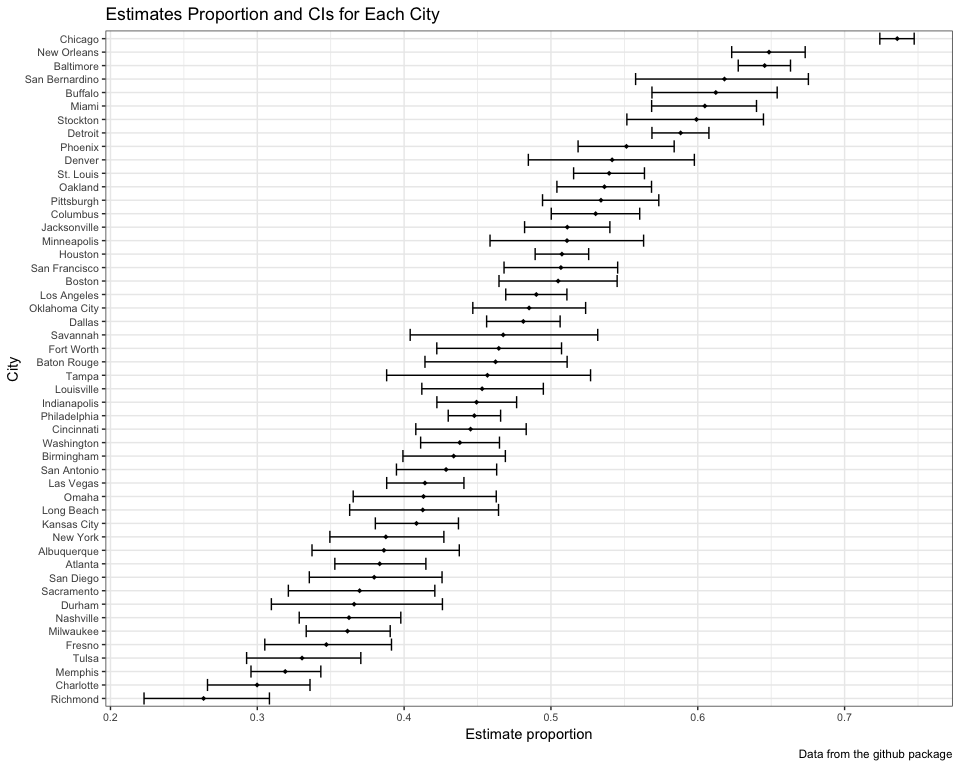
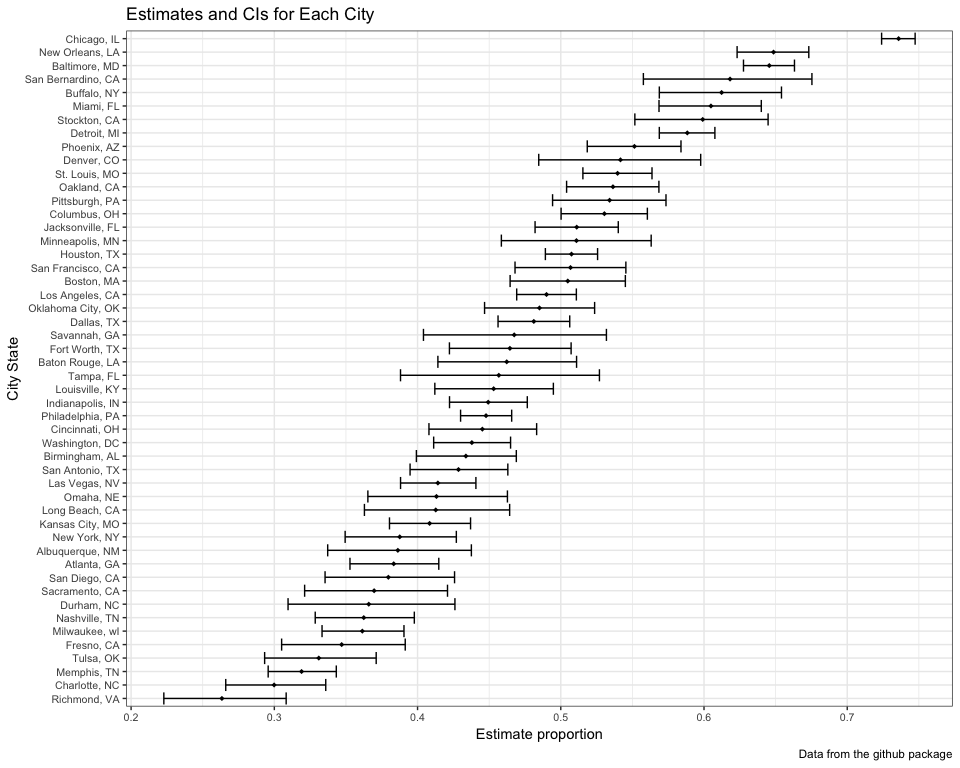
Improve some plot

diff --git a/p8105_hw5_hx2263.md b/p8105_hw5_hx2263.md
@@ -36,32 +36,32 @@ study_data_tidy =
   gather(key = "week", value = "obs_value", week_1:week_8) %>% 
   separate(week, into = c("nn", "week"), sep = "_") %>% 
   select(-nn) %>% 
-  mutate(week = as.numeric(week),
-         id = as.numeric(id))
+  mutate(week = as.numeric(week))
 study_data_tidy
 ```
 
     ## # A tibble: 160 x 5
-    ##    arm_type    id subject_id  week obs_value
-    ##    <chr>    <dbl> <chr>      <dbl>     <dbl>
-    ##  1 con          1 con01          1      0.2 
-    ##  2 con          2 con02          1      1.13
-    ##  3 con          3 con03          1      1.77
-    ##  4 con          4 con04          1      1.04
-    ##  5 con          5 con05          1      0.47
-    ##  6 con          6 con06          1      2.37
-    ##  7 con          7 con07          1      0.03
-    ##  8 con          8 con08          1     -0.08
-    ##  9 con          9 con09          1      0.08
-    ## 10 con         10 con10          1      2.14
+    ##    arm_type id    subject_id  week obs_value
+    ##    <chr>    <chr> <chr>      <dbl>     <dbl>
+    ##  1 con      01    con01          1      0.2 
+    ##  2 con      02    con02          1      1.13
+    ##  3 con      03    con03          1      1.77
+    ##  4 con      04    con04          1      1.04
+    ##  5 con      05    con05          1      0.47
+    ##  6 con      06    con06          1      2.37
+    ##  7 con      07    con07          1      0.03
+    ##  8 con      08    con08          1     -0.08
+    ##  9 con      09    con09          1      0.08
+    ## 10 con      10    con10          1      2.14
     ## # ... with 150 more rows
 
-Make a spaghetti plot showing observations on each subject over time, and comment on differences between groups.
+### Spaghetti plot showing observations on each subject over time
 
 ``` r
 study_data_tidy %>% 
-  ggplot(aes(x = week, y = obs_value, group = subject_id, color = arm_type)) +
+  ggplot(aes(x = week, y = obs_value, color = id)) +
   geom_line() +
+  facet_grid(~ arm_type) +
   labs(
     title = "Observations on Each Subject over 8 Weeks on Both Groups", 
     x = "Week", 
@@ -73,7 +73,9 @@ study_data_tidy %>%
 
 ![](p8105_hw5_hx2263_files/figure-markdown_github/spaghetti_plot-1.png)
 
-**Comment**: All subjects are at same level in 1st week but observations values in experimental group end in higher level than control arm. There are obvious increasing trend in experimental group, while in control group, values remain fluctuating in same level.
+**Comment**:
+
+All subjects are at same level in 1st week but observations values in experimental group end in higher level than control arm. There are obvious increasing trend in experimental group, while in control group, values remain fluctuating in same level.
 
 Problem 2
 =========
@@ -96,49 +98,36 @@ homicide_tidy =
   mutate(city_state = str_c(city, ", ", state)) 
 ```
 
-``` r
-homicide_tidy %>% 
-  count(city_state)
-```
+In the problem description, this dataset should contains homicides from 50 cities, but after summarizing city\_state, there are 51 cities. There is two "Tulsa". There is only one homicide in the row of "Tulsa, AL". Also, after googling we know that Tulsa is in OK, and the longitude and latitude also shows that this homicide was happened in Tulsa, OK. "Tulsa, AL" might be a typo in dataset, so I exclude this observation before further analysis.
 
-    ## # A tibble: 51 x 2
-    ##    city_state          n
-    ##    <chr>           <int>
-    ##  1 Albuquerque, NM   378
-    ##  2 Atlanta, GA       973
-    ##  3 Baltimore, MD    2827
-    ##  4 Baton Rouge, LA   424
-    ##  5 Birmingham, AL    800
-    ##  6 Boston, MA        614
-    ##  7 Buffalo, NY       521
-    ##  8 Charlotte, NC     687
-    ##  9 Chicago, IL      5535
-    ## 10 Cincinnati, OH    694
-    ## # ... with 41 more rows
+``` r
+homicide_tidy = homicide_tidy %>% 
+  filter(city_state != "Tulsa, AL")
+```
 
 ### Summarize within cities to obtain the Total Number of Homicides
 
 ``` r
 total_num = 
   homicide_tidy %>% 
-  group_by(city) %>%
+  group_by(city_state) %>%
   summarise(total_number = n())
 total_num
 ```
 
     ## # A tibble: 50 x 2
-    ##    city        total_number
-    ##    <fct>              <int>
-    ##  1 Albuquerque          378
-    ##  2 Atlanta              973
-    ##  3 Baltimore           2827
-    ##  4 Baton Rouge          424
-    ##  5 Birmingham           800
-    ##  6 Boston               614
-    ##  7 Buffalo              521
-    ##  8 Charlotte            687
-    ##  9 Chicago             5535
-    ## 10 Cincinnati           694
+    ##    city_state      total_number
+    ##    <chr>                  <int>
+    ##  1 Albuquerque, NM          378
+    ##  2 Atlanta, GA              973
+    ##  3 Baltimore, MD           2827
+    ##  4 Baton Rouge, LA          424
+    ##  5 Birmingham, AL           800
+    ##  6 Boston, MA               614
+    ##  7 Buffalo, NY              521
+    ##  8 Charlotte, NC            687
+    ##  9 Chicago, IL             5535
+    ## 10 Cincinnati, OH           694
     ## # ... with 40 more rows
 
 ### Number of Unsolved Homicides
@@ -167,11 +156,11 @@ total_unslv
     ## 10 Cincinnati, OH             309
     ## # ... with 40 more rows
 
-Baltimore, MD--estimate the proportion of homicides that are unsolved
+### Baltimore, MD--estimate the proportion of unsolved homicides
 
 ``` r
 bm_total = total_num %>%
-  filter(city == "Baltimore")
+  filter(city_state == "Baltimore, MD")
 
 bm_unsolved = total_unslv %>%
   filter(city_state == "Baltimore, MD")
@@ -180,15 +169,15 @@ prop_test_bm = prop.test(bm_unsolved$total_unsolved, bm_total$total_number)
 
 prop_test_bm %>% 
   broom::tidy() %>%
-  select(estimate, conf.low, conf.high)
+  select(estimate, conf.low, conf.high) %>%
+  knitr::kable(digits = 3)
 ```
 
-    ## # A tibble: 1 x 3
-    ##   estimate conf.low conf.high
-    ##      <dbl>    <dbl>     <dbl>
-    ## 1    0.646    0.628     0.663
+|  estimate|  conf.low|  conf.high|
+|---------:|---------:|----------:|
+|     0.646|     0.628|      0.663|
 
-Prop.test for each of the cities
+### Prop.test for each of the cities
 
 ``` r
 prop_all_est = 
@@ -197,36 +186,36 @@ prop_all_est =
                           total_num$total_number, prop.test)) %>% 
   mutate(total_hom = map(total_hom, broom::tidy)) %>% 
   unnest() %>% 
-  select(city, estimate, conf.low, conf.high)
+  select(city_state, estimate, conf.low, conf.high)
 prop_all_est
 ```
 
     ## # A tibble: 50 x 4
-    ##    city        estimate conf.low conf.high
-    ##    <fct>          <dbl>    <dbl>     <dbl>
-    ##  1 Albuquerque    0.386    0.337     0.438
-    ##  2 Atlanta        0.383    0.353     0.415
-    ##  3 Baltimore      0.646    0.628     0.663
-    ##  4 Baton Rouge    0.462    0.414     0.511
-    ##  5 Birmingham     0.434    0.399     0.469
-    ##  6 Boston         0.505    0.465     0.545
-    ##  7 Buffalo        0.612    0.569     0.654
-    ##  8 Charlotte      0.300    0.266     0.336
-    ##  9 Chicago        0.736    0.724     0.747
-    ## 10 Cincinnati     0.445    0.408     0.483
+    ##    city_state      estimate conf.low conf.high
+    ##    <chr>              <dbl>    <dbl>     <dbl>
+    ##  1 Albuquerque, NM    0.386    0.337     0.438
+    ##  2 Atlanta, GA        0.383    0.353     0.415
+    ##  3 Baltimore, MD      0.646    0.628     0.663
+    ##  4 Baton Rouge, LA    0.462    0.414     0.511
+    ##  5 Birmingham, AL     0.434    0.399     0.469
+    ##  6 Boston, MA         0.505    0.465     0.545
+    ##  7 Buffalo, NY        0.612    0.569     0.654
+    ##  8 Charlotte, NC      0.300    0.266     0.336
+    ##  9 Chicago, IL        0.736    0.724     0.747
+    ## 10 Cincinnati, OH     0.445    0.408     0.483
     ## # ... with 40 more rows
 
-Create a plot that shows the estimates and CIs for each city – check out geom\_errorbar for a way to add error bars based on the upper and lower limits. Organize cities according to the proportion of unsolved homicides.
+### Plot that shows the estimates and CIs for each city – check out geom\_errorbar for a way to add error bars based on the upper and lower limits. Organize cities according to the proportion of unsolved homicides.
 
 ``` r
 prop_all_est %>%
-  ggplot(aes(x = reorder(city, estimate), y = estimate)) +
+  ggplot(aes(x = reorder(city_state, estimate), y = estimate)) +
   coord_flip() + 
   geom_point(size = 1.5, shape = 18, fill = "white") +
   geom_errorbar(mapping = aes(ymin = conf.low, ymax = conf.high)) +
   labs(
-        title = "Estimates Proportion and CIs for Each City",
-        x = "City",
+        title = "Estimates and CIs for Each City",
+        x = "City State",
         y = "Estimate proportion",
         caption = "Data from the github package"
       ) +
